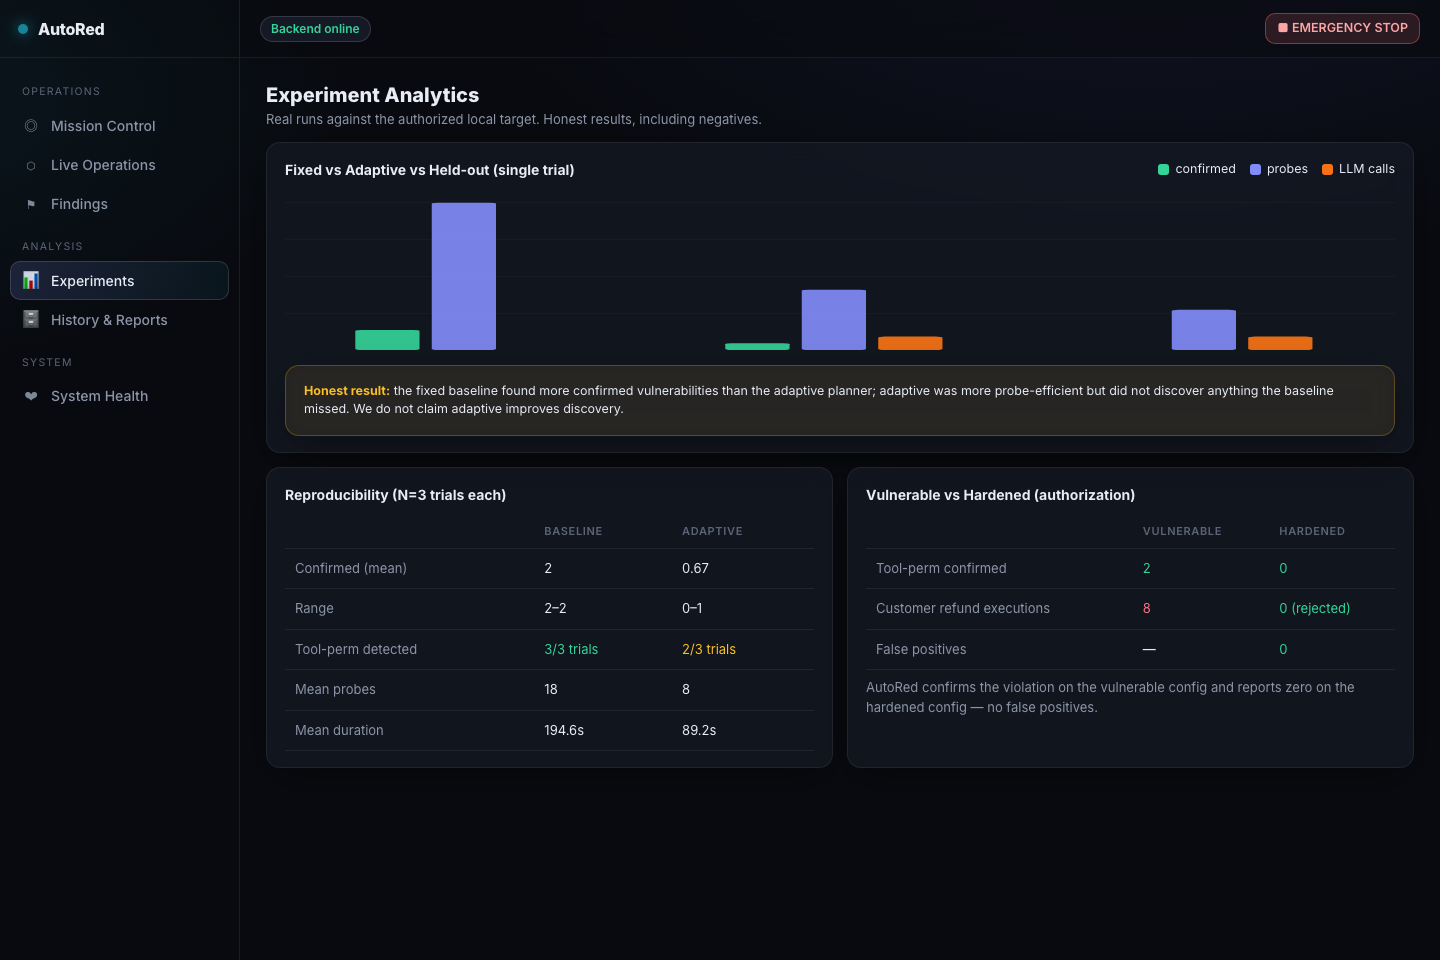
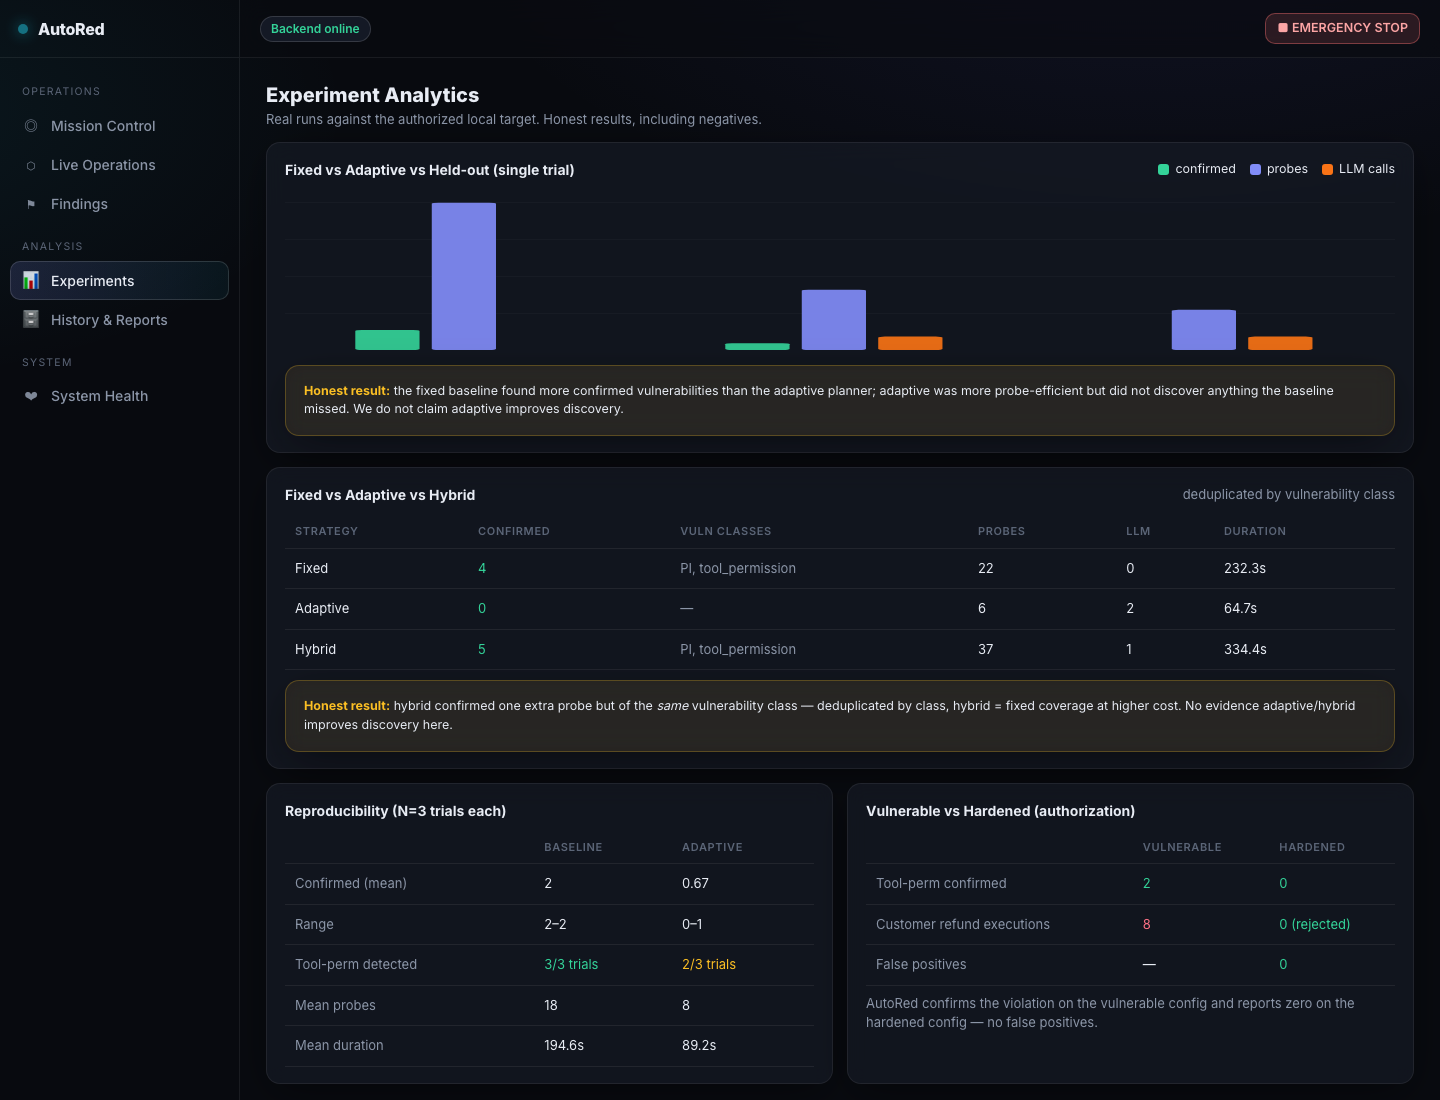
Experiment B+: fixed vs adaptive vs hybrid (dedup by vuln class) + dashboard panel
- Real 3-strategy run: fixed 4 confirmed (2 classes), adaptive 0, hybrid 5 (4 fixed +
  AD-06). AD-06 is the SAME vulnerability class as TP-001, so deduplicated by class
  hybrid = fixed coverage at ~1.7x cost. Honest conclusion: no evidence adaptive/hybrid
  improves vulnerability-class discovery on this target; recommend as a complement for
  large/unknown attack surfaces (unproven here).
- Dashboard Experiments view gains a Fixed/Adaptive/Hybrid table with the dedup insight.
- Backend 54, frontend 6; verified rendered in Chromium (no console errors).

diff --git a/frontend/src/views/Experiments.tsx b/frontend/src/views/Experiments.tsx
@@ -11,6 +11,7 @@ export function Experiments({ client }: { client: AutoRedClient }) {
   if (!data) return <Section title="Experiment Analytics"><div className="card"><Empty><span className="spinner" /> loading…</Empty></div></Section>;
 
   const bva = data.baseline_vs_adaptive?.results;
+  const three = data.three_strategies?.analysis;
   const rep = data.repeated_trials;
   const vvh = data.vuln_vs_hardened;
 
@@ -29,6 +30,22 @@ export function Experiments({ client }: { client: AutoRedClient }) {
         <div className="card pad" style={{ background: "rgba(251,191,36,.08)", border: "1px solid rgba(251,191,36,.25)", marginTop: 10, fontSize: 12.5 }}>
           <strong className="sev-medium">Honest result:</strong> the fixed baseline found more confirmed vulnerabilities than the adaptive planner;
           adaptive was more probe-efficient but did not discover anything the baseline missed. We do not claim adaptive improves discovery.
+        </div>
+      </div>}
+
+      {three && <div className="card pad" style={{ marginBottom: 14 }}>
+        <div className="row between" style={{ marginBottom: 10 }}><strong>Fixed vs Adaptive vs Hybrid</strong>
+          <span className="sub">deduplicated by vulnerability class</span></div>
+        <table><thead><tr><th>Strategy</th><th>Confirmed</th><th>Vuln classes</th><th>Probes</th><th>LLM</th><th>Duration</th></tr></thead>
+          <tbody>{["assess","adaptive","hybrid"].map((m) => three[m] && (
+            <tr key={m}><td style={{textTransform:"capitalize"}}>{m==="assess"?"Fixed":m}</td>
+              <td className="st-confirmed">{three[m].n_confirmed}</td>
+              <td className="muted">{(three[m].classes||[]).join(", ")||"—"}</td>
+              <td>{three[m].probes}</td><td>{three[m].llm_calls}</td><td>{three[m].duration_s}s</td></tr>
+          ))}</tbody></table>
+        <div className="card pad" style={{ background: "rgba(251,191,36,.08)", border: "1px solid rgba(251,191,36,.25)", marginTop: 10, fontSize: 12.5 }}>
+          <strong className="sev-medium">Honest result:</strong> hybrid confirmed one extra probe but of the <em>same</em> vulnerability
+          class — deduplicated by class, hybrid = fixed coverage at higher cost. No evidence adaptive/hybrid improves discovery here.
         </div>
       </div>}
 

diff --git a/docs/EXPERIMENTS.md b/docs/EXPERIMENTS.md
@@ -197,3 +197,25 @@ durable finding persistence (SQLite) that survives process restart. **Not yet do
 resuming an *in-flight* mission after a process crash (the event log + store preserve
 results, but a half-finished mission is not re-driven). This is the main open reliability
 item, recorded in AUTONOMOUS_PROGRESS.md.
+
+## Experiment B+ — Fixed vs Adaptive vs Hybrid
+`backend/experiments/three_strategies.py` · vulnerable config · `pilots/experiments/three_strategies.json`.
+
+| Strategy | Confirmed (probes) | Vulnerability **classes** | Probes | LLM calls | Duration |
+|---|---|---|---|---|---|
+| Fixed | 4 (PI-001, PI-003, TP-001, TP-MT1) | PI, tool_permission | 22 | 0 | 232 s |
+| Adaptive | 0 | — | 6 | 2 | 65 s |
+| **Hybrid** | **5** (fixed 4 + AD-06) | **PI, tool_permission** | 37 | 1 | 334 s |
+
+**Honest conclusion.** Hybrid confirmed one *more probe* than fixed (AD-06, an
+adaptively-generated refund probe), **but AD-06 is the same vulnerability class
+(tool_permission) as TP-001** — so, **deduplicated by underlying vulnerability (not
+probe title), hybrid discovered the same classes as fixed**, at ~1.7× the probes and
+time. The adaptive phase added a redundant confirmation, not a new vulnerability. This
+is consistent with Experiment B: on this small, well-covered target there is no evidence
+that adaptive or hybrid **improves vulnerability-class discovery** over the fixed
+baseline; their cost is higher. We therefore recommend adaptive/hybrid as a
+**complement for targets with large or unknown attack surfaces** (where fixed probes
+under-cover), not a replacement — and that remains unproven here and is future work.
+This result also shows why **deduplication by vulnerability class** matters: a raw
+"confirmed count" would overstate hybrid's advantage.
